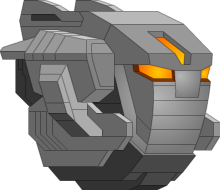
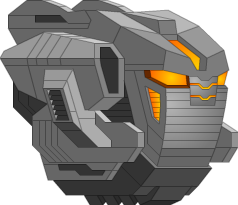
fixes and portrait view

diff --git a/public/css/workshop-unlimited-multi.css b/public/css/workshop-unlimited-multi.css
@@ -23,16 +23,6 @@
 		drop-shadow(0 0 0.8px #000000);
 }
 
-.click-area {
-	position: absolute;
-	display: block;
-	left: 0;
-	top: 0;
-	width: 100%;
-	height: 100%;
-	z-index: 2
-}
-
 .horizontal-separator {
 	position: relative;
 	display: block;
@@ -51,6 +41,25 @@
 	overflow: hidden;
 }
 
+.ui {
+	z-index: 100;
+}
+
+.tab {
+	z-index: 200;
+}
+
+.click-area {
+	position: absolute;
+	display: block;
+	left: 0;
+	top: 0;
+	width: 100%;
+	height: 100%;
+}
+
+
+/* wu-workshop-unlimited */
 
 wu-workshop-unlimited {
 	position: relative;
@@ -219,17 +228,9 @@ wu-workshop-screen > .ctn-modules {
 	height: 100%;
 	grid-area: g;
 }
-wu-workshop-screen > wu-mech-summary {
-	z-index: 100;
-	grid-area: f
-}
-wu-workshop-screen > wu-mech-display {
-	z-index: 100;
-	grid-area: b
-}
-wu-workshop-screen > wu-basic-button.settings {
-	grid-area: e
-}
+wu-workshop-screen > wu-mech-summary { grid-area: f }
+wu-workshop-screen > wu-mech-display { grid-area: b }
+wu-workshop-screen > wu-basic-button.settings { grid-area: e }
 
 wu-workshop-screen > wu-select-items-tab {
 	position: absolute;
@@ -240,7 +241,6 @@ wu-workshop-screen > wu-select-items-tab {
 	height: 100%;
 	border-radius: var(--general-radius);
 	background-color: var(--color-c);
-	z-index: 200;
 }
 wu-workshop-screen > wu-select-items-tab > .item-blocks-container {
 	position: relative;
@@ -321,7 +321,8 @@ wu-equipment-slot > .icon-gfx {
 
 wu-mech-summary {
 	position: relative;
-	display: block;
+	display: grid;
+	grid-template-areas: 'a' 'b' 'c' 'd' 'e' 'f' 'g' 'h';
 	width: var(--grid-box-sizing);
 	height: var(--grid-box-sizing);
 	border-radius: var(--general-radius);
@@ -330,7 +331,7 @@ wu-mech-summary {
 }
 wu-mech-summary > wu-stat-block {
 	width: 100%;
-	height: calc(100% / 9);
+	height: 100%;
 }
 
 
@@ -344,12 +345,14 @@ wu-stat-block {
 	align-items: center;
 	width: 120px;
 	height: 30px;
+	white-space: nowrap;
 }
 wu-stat-block > .icon {
 	position: relative;
 	display: block;
-	width: 20%;
-	height: 80%;
+	width: 25%;
+	height: 100%;
+	transform: scale(0.85);
 	background-position: center;
 	background-repeat: no-repeat;
 	background-size: contain;
@@ -629,5 +632,48 @@ wu-progress-bar > .text {
 	}
 	100% {
 		text-shadow: 0 0 10px var(--color-a);
+	}
+}
+
+
+
+@media (orientation: portrait) {
+	wu-workshop-unlimited {
+		width: 100%;
+		height: 100%;
+		max-width: unset;
+		max-height: unset;
+	}
+
+	wu-workshop-screen {
+		grid-template-rows: 18% 55% 18% 9%;
+		grid-template-columns: 80% 20%;
+		grid-template-areas:
+			'f e'
+			'b b'
+			'a a'
+			'g g';
+		--grid-box-margin: 5px;
+	}
+
+	wu-workshop-screen > .ctn-parts-and-specs {
+		grid-template-areas:
+			'e a f g i h'
+			'c b d j k l';
+	}
+
+	wu-mech-summary {
+		grid-template-areas:
+			'a d g'
+			'b e h'
+			'c f i';
+	}
+
+	wu-workshop-screen > wu-select-items-tab {
+		grid-template-rows: 40% 60%;
+		grid-template-columns: unset;
+		grid-template-areas:
+			'a'
+			'b';
 	}
 }

diff --git a/public/js/wu/screens/workshop/SelectItemsTab.js b/public/js/wu/screens/workshop/SelectItemsTab.js
@@ -24,6 +24,8 @@ export const SelectItemsTab = class extends SingletonElement
         this.itemBlocksCtn = null
         this.items = null
         this.currentSlot = null
+
+        this.classList.add('tab')
     }
 
     init ()

diff --git a/public/js/wu/screens/workshop/EquipmentSlot.js b/public/js/wu/screens/workshop/EquipmentSlot.js
@@ -29,6 +29,7 @@ export const EquipmentSlot = class extends BaseElement
 		this.type = type
 		this.item = null
 
+		this.classList.add('ui')
 		this.appendChildren(this.iconGfx, this.itemGfx)
 		this.init(SelectItemsTab)
 	}

diff --git a/public/js/wu/screens/workshop/MechSummary.js b/public/js/wu/screens/workshop/MechSummary.js
@@ -24,6 +24,8 @@ export const MechSummary = class extends SingletonElement
         
         this.blocks = []
         this.element = div('wu-mech-summary')
+
+        this.classList.add('ui')
     }
 
     init ()
